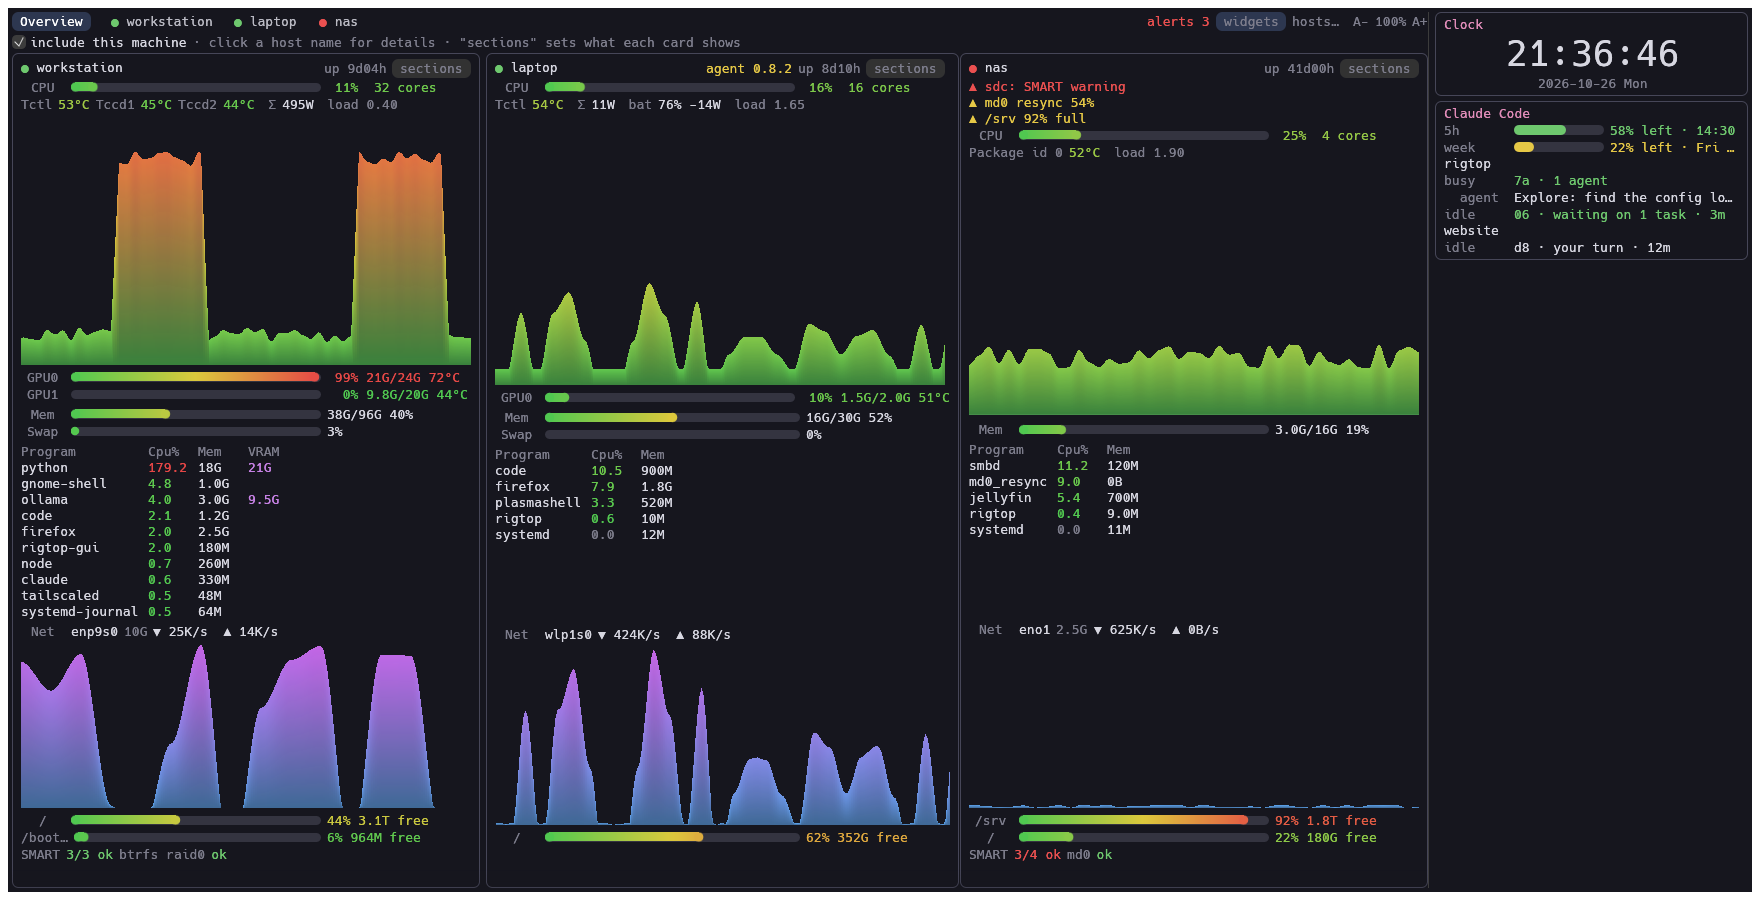
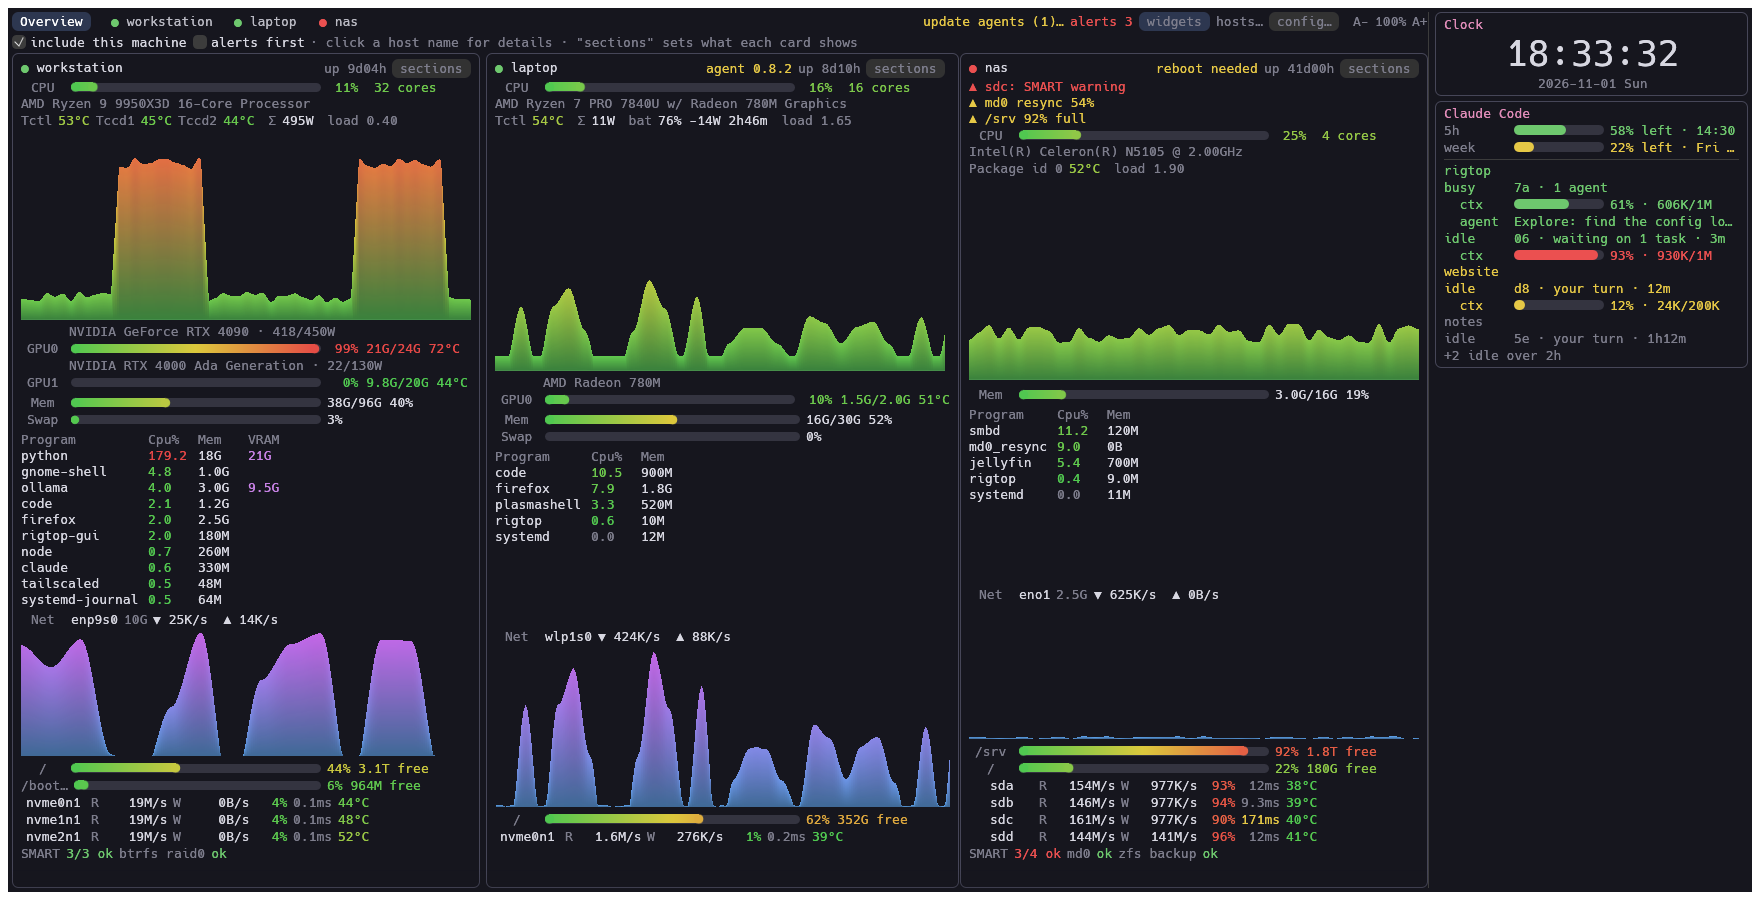
README: screenshots of 0.26: containers, ZFS, overview graphs

diff --git a/README.ja.md b/README.ja.md
@@ -13,7 +13,7 @@
 
 [English README](README.md)
 
-![rigtop の TUI: CPU の各コア、メモリ、GPU 2枚、SMART と btrfs RAID を含むストレージの状態、ネットワーク、プロセスごとのディスク I/O と VRAM を出すプロセス一覧](docs/images/rigtop-tui.png)
+![rigtop の TUI: CPU の各コア、メモリ、GPU 2枚、SMART と btrfs RAID を含むストレージの状態、ネットワーク、プロセスごとのコンテナと GPU の使用率を出すプロセス一覧](docs/images/rigtop-tui.png)
 
 ## 目標
 
@@ -207,7 +207,7 @@ GUI では **hosts…**（タブの並び、または手元の機だけを表示
 
 ホストが2台以上あると、全ホストを並べた**オーバービュー**から始まります。ホストごと（手元の機を含む）の詳細表示はタブで切り替えます。各ホストのカードには、まず要注意の項目（ストレージのエラー、SMART の異常、RAID の劣化、残り容量の少ないファイルシステム、高温の CPU・GPU・ドライブ）を出し、続けて CPU・GPU・メモリ・プロセス上位・ネットワーク・ストレージを、この順にカードに入る分だけ出します。さらに余白があれば、詳細（CPU 名・GPU 名・ディスクの I/O）、次に CPU と通信量のグラフを出します。TUI では、横に並んだカードの各欄の開始行を揃えます。順番は `[overview] sections`（全体）、ホストごとの `sections`、GUI のカードの「sections」メニューで変えられます。手元の機のカードを出すかどうかは `[overview] include_local`（GUI はチェックボックス、TUI は `l` キー）で切り替えます。カードは設定の順に並びます。`[overview] alerts_first = true`（GUI は「alerts first」）にすると、要注意のホストを先頭に並べます（つながらないか critical の警告があるもの、次に warning のあるもの。それ以外は元の順番のまま）。TUI では `Tab` と `0`〜`9` で、オーバービューと各ホストを切り替えます。
 
-![rigtop-gui で3台を並べたオーバービュー: GPU 2枚で学習中のワークステーション、バッテリー駆動のノート PC、代替処理済みセクタのあるドライブで赤く表示され、RAID の再同期と容量の逼迫も出ている NAS。右には時計と Claude Code のウィジェット](docs/images/rigtop-gui-overview.png)
+![rigtop-gui で3台を並べたオーバービュー: GPU 2枚で学習中のワークステーション、バッテリー駆動のノート PC、代替処理済みセクタのあるドライブで赤く表示され、RAID の再同期・容量の逼迫・ZFS のプールも出ている NAS。右には時計と Claude Code のウィジェット](docs/images/rigtop-gui-overview.png)
 
 rigtop は OS の `ssh`（Windows では標準の OpenSSH クライアント）で、各ホストの `rigtop --agent` を起動します。`~/.ssh/config`・鍵・`ProxyJump` はいつもどおり使えます。常駐プロセスもポート開放も不要で、エージェントは接続が切れると終了し、rigtop は自動で再接続します。つながらない間は、そのホストのカード・タブ・見出しに、どれくらいの間・いつから途切れているかを出します（`offline for 5m (since 14:03)`）。詳細表示していないホストからは、プロセスの上位だけを受け取ります。
 

diff --git a/README.md b/README.md
@@ -13,7 +13,7 @@ A system monitor for workstations, laptops and NAS — an alternative to btop th
 
 [日本語版 README](README.ja.md)
 
-![rigtop TUI: CPU cores, memory, two GPUs, storage health with SMART and btrfs RAID, network, and a process list with per-process disk I/O and VRAM](docs/images/rigtop-tui.png)
+![rigtop TUI: CPU cores, memory, two GPUs, storage health with SMART and btrfs RAID, network, and a process list with each process's container and GPU use](docs/images/rigtop-tui.png)
 
 ## Goals
 
@@ -207,7 +207,7 @@ In the GUI, **hosts…** (in the tab bar, or in the CPU panel title while only t
 
 With more than one host, rigtop opens on an **overview** with one card per host, plus a tab per host (this machine included) for the full detail view. Cards show alerts (storage errors, failing SMART, degraded RAID, nearly full filesystems, hot CPUs, GPUs and drives) and then CPU, GPU, memory, the top processes, network and storage, in that order and as far as the card has room; room to spare goes to details (CPU model, GPU names, disk I/O) and then to CPU and network graphs. In the TUI, the cards of a row line up section by section. Change the default order with `[overview] sections`, per host with `sections`, or in the GUI with each card's "sections" menu. Whether this machine gets a card is `[overview] include_local` (or the checkbox in the GUI, `l` in the TUI). Cards follow the configured order; with `[overview] alerts_first = true` (or "alerts first" in the GUI), hosts that need attention come first: unreachable or with a critical alert, then with warnings, the others in their order. In the TUI, `Tab` and `0`-`9` switch between the overview and the hosts.
 
-![rigtop-gui showing an overview of three hosts: a workstation training on two GPUs, a laptop on battery, and a NAS flagged red for a drive with reallocated sectors, with a RAID resync and a nearly full filesystem; a clock and Claude Code widget on the right](docs/images/rigtop-gui-overview.png)
+![rigtop-gui showing an overview of three hosts: a workstation training on two GPUs, a laptop on battery, and a NAS flagged red for a drive with reallocated sectors, with a RAID resync, a nearly full filesystem and a ZFS pool; a clock and Claude Code widget on the right](docs/images/rigtop-gui-overview.png)
 
 rigtop starts `rigtop --agent` on each remote host through your system's `ssh` (the built-in OpenSSH client on Windows), so `~/.ssh/config`, keys and `ProxyJump` work as usual. There is no daemon to run and no port to open; the agent exits when the connection closes, and rigtop reconnects by itself. While a host cannot be reached, its card, tab and title say for how long and since when (`offline for 5m (since 14:03)`). Hosts not shown in detail only send their top processes.
 
